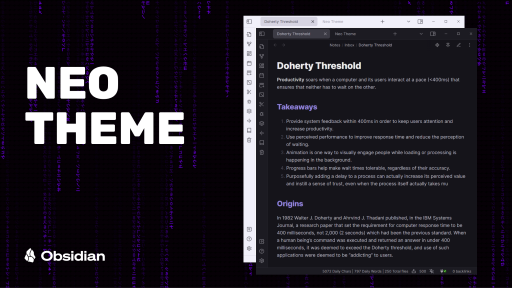
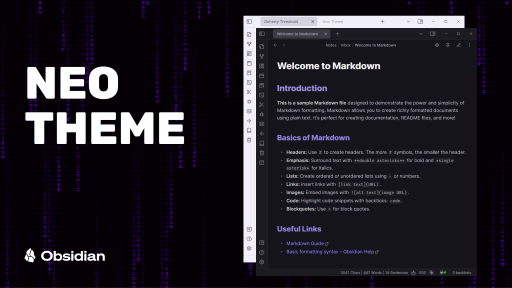
Update cover

diff --git a/README.md b/README.md
@@ -17,5 +17,5 @@ Please note that this theme was initially made for personal use, so it was not d
 
 ## Credit
 
-- [@colineckert](https://github.com/colineckert)'s [Things theme](https://github.com/colineckert/obsidian-things) for the Kanban styles and inspiration to create this theme.
-- [@Akifyss](https://github.com/Akifyss)'s[Border theme](https://github.com/Akifyss/obsidian-border) for the scrollbars, new page icon and inspiration.
+- [@colineckert](https://github.com/colineckert)'s [Things theme](https://github.com/colineckert/obsidian-things) for the Kanban styles and inspiration.
+- [@Akifyss](https://github.com/Akifyss)'s [Border theme](https://github.com/Akifyss/obsidian-border) for the scrollbars, new page icon and inspiration.